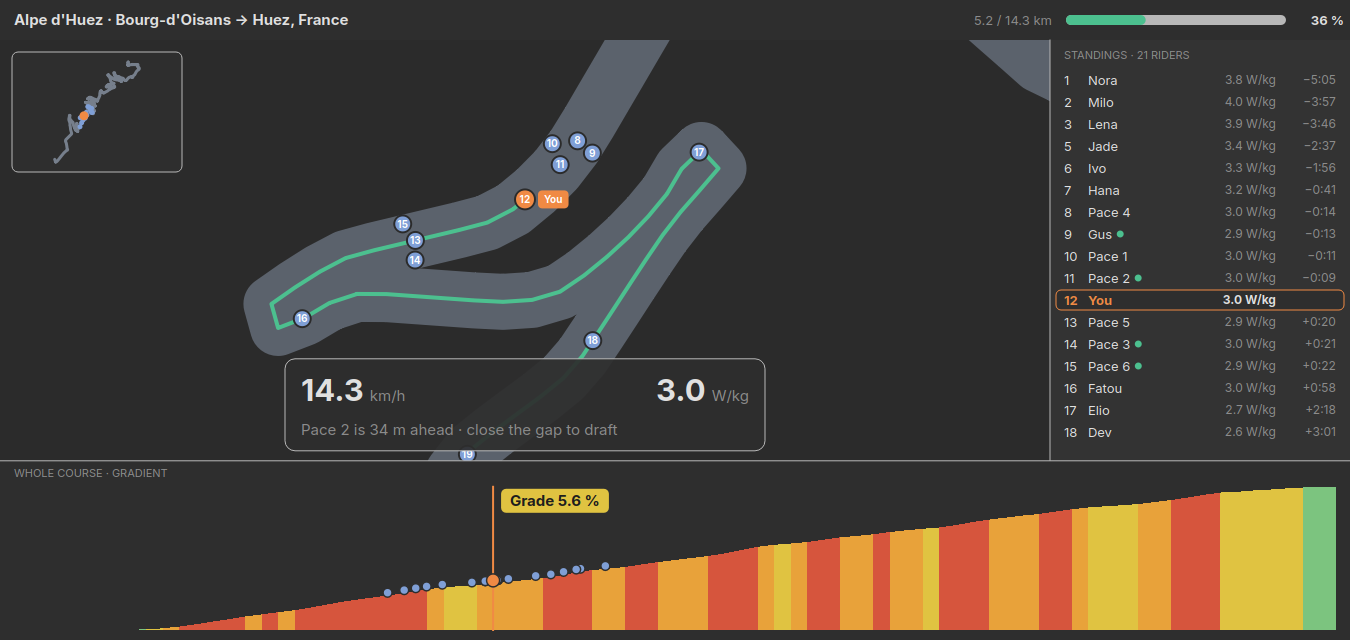
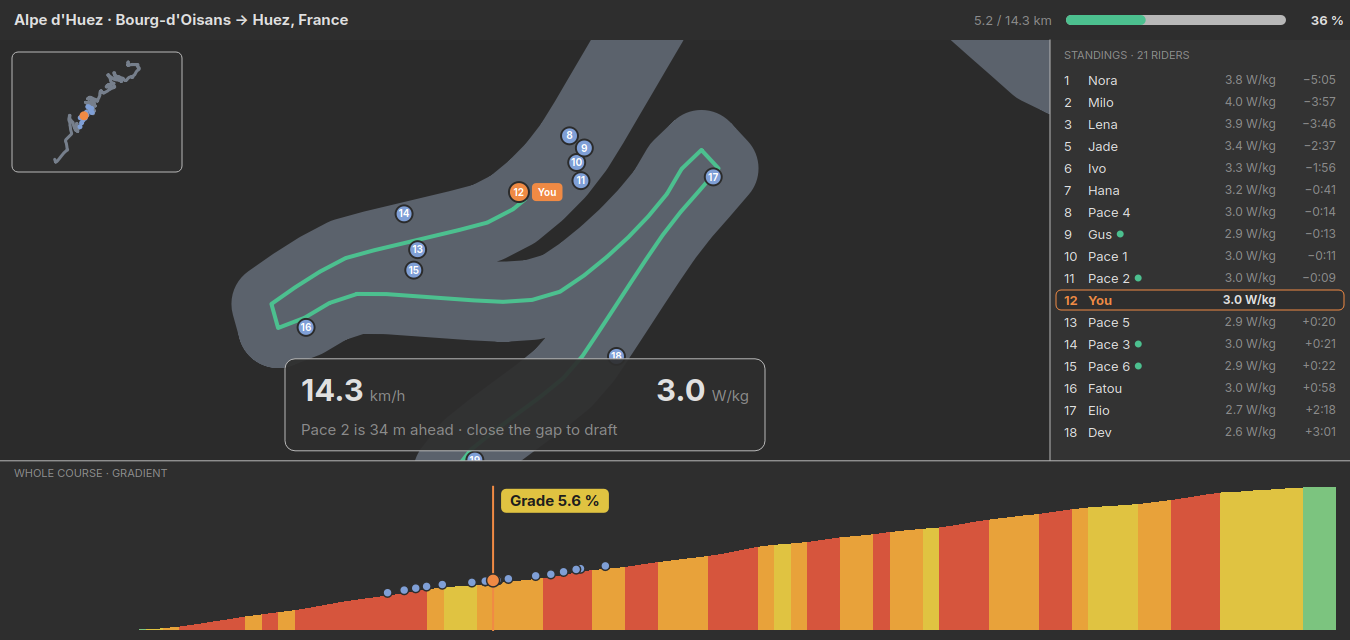
feat(courses): riders keep their lane in a bunch, four abreast
Each frame used to place every rider from scratch (leader first, first free
spot), so a small change in the order could move your dot to the other side
of the road. Riders now keep a lane across the road between frames, move one
lane over only when theirs is taken by a rider just ahead, and glide across
instead of jumping. The road is drawn four riders wide.

bunch_ridersKeepTheirLane rides two minutes in a 20-bot bunch at 25 frames a
second: your lane never jumps more than one lane and changes 7 times (the
test allows 12).

diff --git a/src/race/raceview.cpp b/src/race/raceview.cpp
@@ -29,7 +29,7 @@ constexpr double kStandingsWidth = 300.0;
 constexpr double kRowHeight = 22.0;
 constexpr double kNowCardWidth = 480.0;
 constexpr double kNowCardHeight = 92.0;
-constexpr double kRoadWidthPx = 56.0;
+constexpr double kRoadWidthPx = 80.0;   // four riders abreast
 constexpr double kNameRangeM = 30.0;   // riders this close get a name tag, where it fits
 constexpr double kZoomHalfM = 90.0;    // the map shows 180 m around you
 constexpr double kProfileMinSegmentM = 100.0;
@@ -263,42 +263,55 @@ void RaceView::paintRoute(QPainter &painter, const QRectF &area) const
     dotFont.setBold(true);
     dotFont.setPointSizeF(font().pointSizeF() * 0.78);
 
-    // Lay the riders out like a bunch: leader first, each at its place on the
-    // road; a rider who would cover one already placed moves across the road,
-    // left then right, so riders a metre apart are still two dots.
+    // Lay the riders out like a bunch, four abreast. Each rider keeps a lane
+    // across the road from frame to frame and only moves over when the
+    // lane is taken by a rider just ahead, then glides across instead of
+    // jumping. Placed leader first, so the riders behind make way.
     constexpr double kRadius = 8.5;
     constexpr double kYourRadius = 10.0;
     constexpr double kSlot = 2 * kRadius + 2;
-    constexpr int kMaxSideSlots = 1;   // three abreast: the width of the road
-    QVector<QPointF> centres(m_race->riders().size());
-    QVector<QPointF> placed;
+    constexpr double kLaneGlide = 0.12;   // share of the way to the new lane per frame
+    constexpr int kLanes = 4;
+    // Lane 0..3 across the road, centred on the road's middle line.
+    auto laneOffset = [](double lane) { return lane - (kLanes - 1) / 2.0; };
+    const int riderCount = static_cast<int>(m_race->riders().size());
+    if (m_lanes.size() != riderCount) {
+        m_lanes.resize(riderCount);
+        m_laneOffsets.resize(riderCount);
+        for (int index = 0; index < riderCount; ++index) {
+            m_lanes[index] = (index + 1) % kLanes;   // you start in an inside lane
+            m_laneOffsets[index] = m_lanes.at(index);
+        }
+    }
+    QVector<QPointF> centres(riderCount);
+    QVector<QPointF> laneTargets;   // where the riders already placed are heading
     for (const int index : order) {
         const double distance = m_race->riders().at(index).distanceM;
         const QPointF onRoad = routePoint(distance, roadArea, bounds);
-        QPointF direction = routePoint(distance + 4.0, roadArea, bounds) - routePoint(distance - 4.0, roadArea, bounds);
+        const QPointF direction = routePoint(distance + 4.0, roadArea, bounds) - routePoint(distance - 4.0, roadArea, bounds);
         const double length = std::hypot(direction.x(), direction.y());
         const QPointF across = length > 0.01 ? QPointF(-direction.y() / length, direction.x() / length) : QPointF(0, 1);
-        QPointF best = onRoad;
-        double bestClearance = -1.0;
-        for (int slot = 0; slot <= 2 * kMaxSideSlots; ++slot) {
-            const int side = (slot + 1) / 2 * (slot % 2 == 1 ? 1 : -1);
-            const QPointF candidate = onRoad + across * (side * kSlot);
-            double clearance = 1e9;
-            for (const QPointF &other : std::as_const(placed))
-                clearance = std::min(clearance, std::hypot(candidate.x() - other.x(), candidate.y() - other.y()));
-            if (clearance >= kSlot - 1.0) {
-                best = candidate;
-                break;
-            }
-            if (clearance > bestClearance) {
-                bestClearance = clearance;
-                best = candidate;
-            }
+        auto clearOf = [&](int lane) {
+            const QPointF spot = onRoad + across * (laneOffset(lane) * kSlot);
+            return std::all_of(laneTargets.cbegin(), laneTargets.cend(), [&](const QPointF &other) {
+                return std::hypot(spot.x() - other.x(), spot.y() - other.y()) >= kSlot - 1.0;
+            });
+        };
+        // Stay put if you can; otherwise move one lane over if it is free; if
+        // neither neighbour is free, stay and overlap a little rather than hop.
+        int lane = m_lanes.at(index);
+        if (!clearOf(lane)) {
+            for (const int option : {lane - 1, lane + 1})
+                if (option >= 0 && option < kLanes && clearOf(option)) {
+                    lane = option;
+                    break;
+                }
         }
-        centres[index] = best;
-        placed.append(best);
+        m_lanes[index] = lane;
+        m_laneOffsets[index] += (lane - m_laneOffsets.at(index)) * kLaneGlide;
+        laneTargets.append(onRoad + across * (laneOffset(lane) * kSlot));
+        centres[index] = onRoad + across * (laneOffset(m_laneOffsets.at(index)) * kSlot);
     }
-
     // Sprinting (1.5 x your FTP per kg or more): the dot's border flashes red.
     const bool flashOn = (QDateTime::currentMSecsSinceEpoch() / 250) % 2 == 0;
     auto drawDot = [&](int index) {

diff --git a/tests/workout_dialog/tst_workout_dialog_race.cpp b/tests/workout_dialog/tst_workout_dialog_race.cpp
@@ -169,6 +169,36 @@ private slots:
         delete second;
     }
 
+    // In a bunch your dot keeps its lane: it only moves over when the lane is
+    // taken, one lane at a time, and doesn't flick from side to side.
+    void bunch_ridersKeepTheirLane()
+    {
+        const auto course = RaceCourse::fromFile(QStringLiteral(":/courses/longchamp.json"));
+        RaceSimulation race(*course, QStringLiteral("You"), kRiderKg, 8.0, 0.30);
+        for (const RaceBot &bot : RaceBot::defaultField(5))
+            race.addBot(bot);
+        RaceView view(&race);
+        view.resize(1350, 640);
+        QImage frame(view.size(), QImage::Format_ARGB32_Premultiplied);
+
+        int changes = 0;
+        int previous = -1;
+        for (int tick = 0; tick < 25 * 120; ++tick) {   // two minutes at 25 frames a second
+            race.setYourPower(kThreeWattsPerKg);
+            race.step(0.04);
+            view.render(&frame);
+            const int lane = view.laneOf(0);
+            QVERIFY(lane >= 0 && lane <= 3);
+            if (previous >= 0 && lane != previous) {
+                ++changes;
+                QVERIFY2(std::abs(lane - previous) == 1, "jumped more than one lane");
+            }
+            previous = lane;
+        }
+        qInfo("your lane changed %d times in two minutes of bunch riding", changes);
+        QVERIFY2(changes <= 12, qPrintable(QStringLiteral("%1 lane changes").arg(changes)));
+    }
+
     void race_followsPowerAndSteersTheTrainer()
     {
         m_account->weight_kg = kRiderKg;

diff --git a/src/race/raceview.h b/src/race/raceview.h
@@ -24,6 +24,9 @@ public:
     /// rider's dot flashes red at 1.5 times it (a sprint). 0 = never.
     void setRedLineWattsPerKg(double wattsPerKg);
 
+    /// The lane (0 to 3, across the road) a rider's dot is in, as last drawn.
+    int laneOf(int riderIndex) const { return riderIndex < m_lanes.size() ? m_lanes.at(riderIndex) : -1; }
+
 protected:
     void paintEvent(QPaintEvent *event) override;
     void resizeEvent(QResizeEvent *event) override;
@@ -51,6 +54,10 @@ private:
     QVector<QPointF> m_projected;
     QRectF m_projectedBounds;
     double m_redLineWattsPerKg = 0.0;
+    // Each rider's lane across the road (0 to 3) and where their dot is on
+    // its way to it; kept between frames so riders don't hop sides.
+    mutable QVector<int> m_lanes;
+    mutable QVector<double> m_laneOffsets;
 };
 
 #endif // RACEVIEW_H
